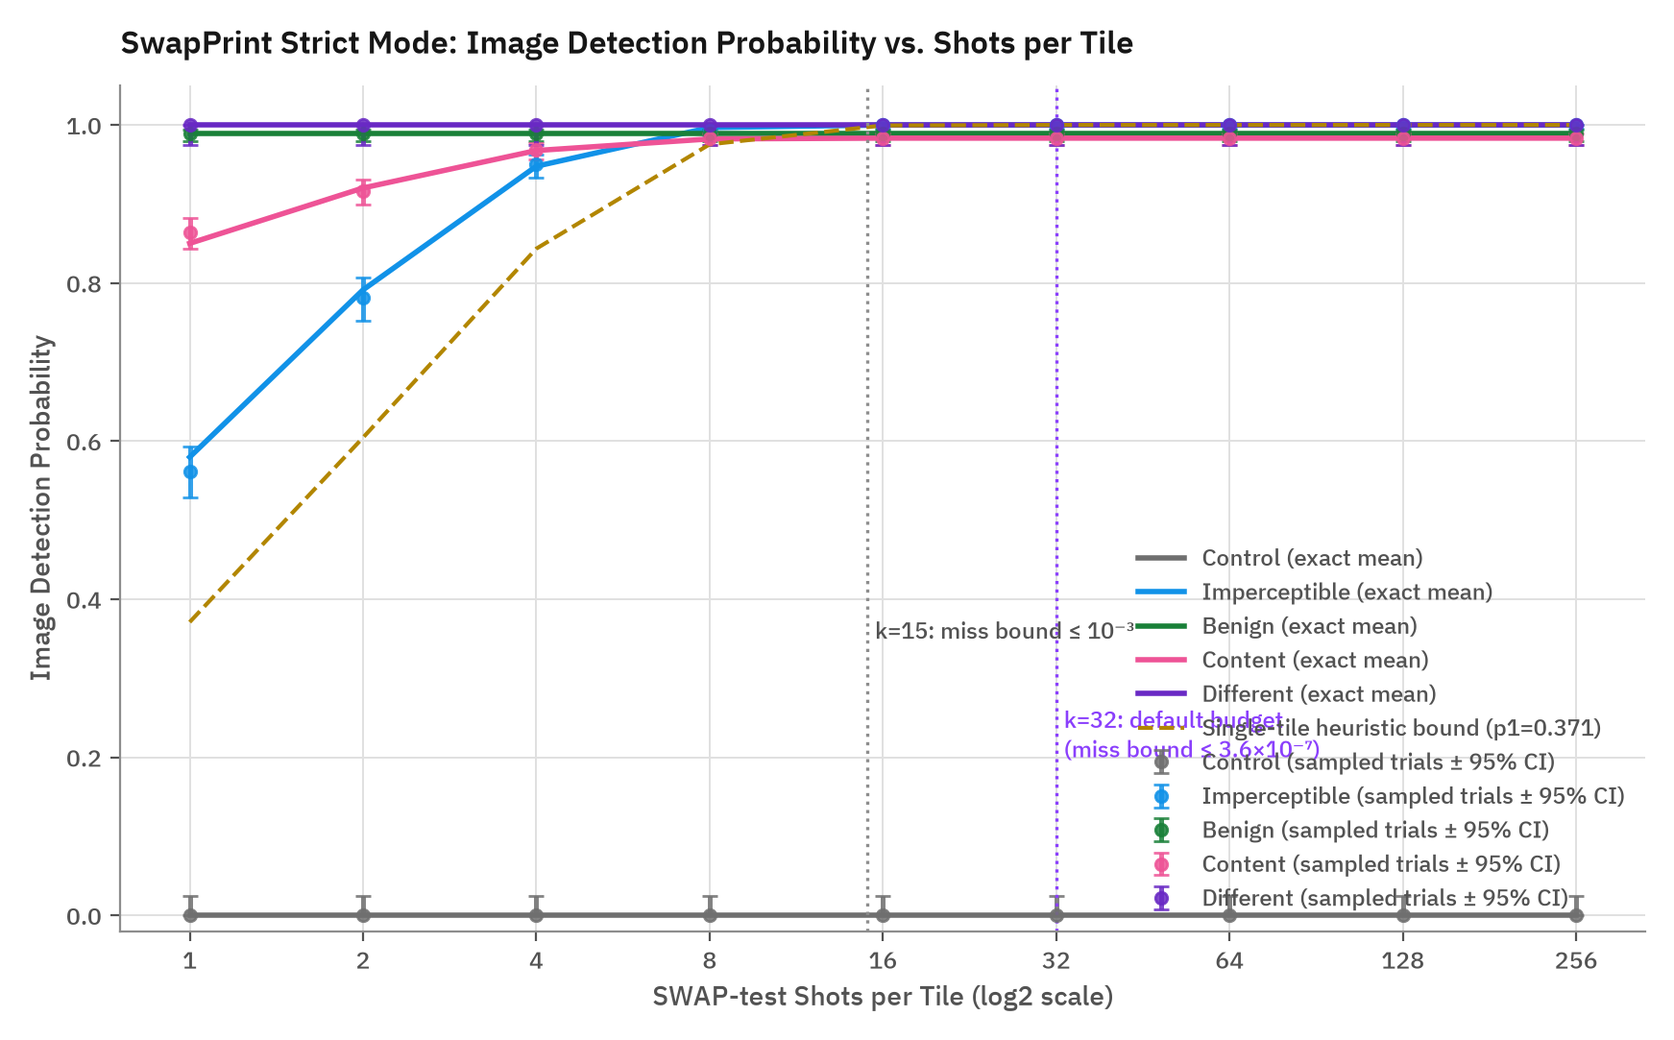
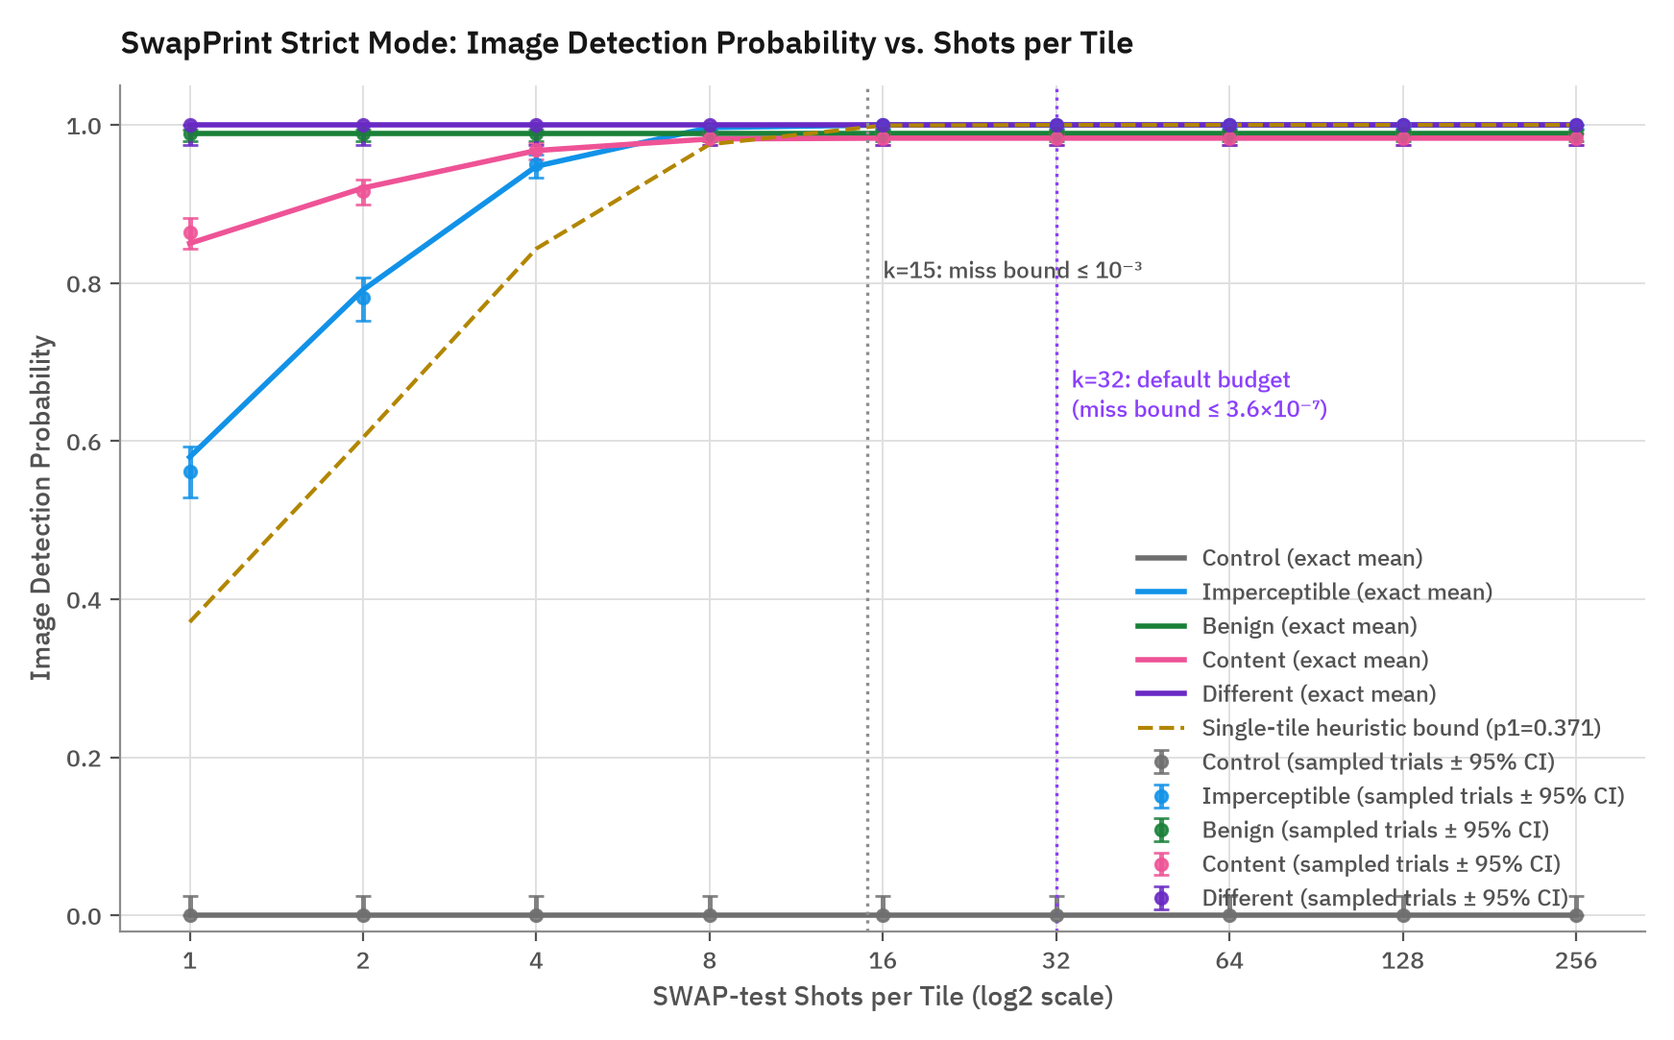
figures, README: fix F1/F2 legend overlaps, align collision overlap to 0.1094 with interval, and reconcile SHA-256 time

diff --git a/experiments/make_figures.py b/experiments/make_figures.py
@@ -116,11 +116,11 @@ def make_f1_detection_vs_shots(pairs: list[dict[str, Any]], trials: list[dict[st
     ax.plot(shots_list, single_tile_k15, "--", color=cat_colors[9], linewidth=1.5,
             label=f"Single-tile heuristic bound (p1={p1_min:.3f})")
 
-    # Annotations
+    # Annotations (placed clear of lower-right legend)
     ax.axvline(15, color=tokens["border-strong-01"], linestyle=":", linewidth=1.2)
-    ax.text(15.5, 0.35, "k=15: miss bound ≤ 10⁻³", fontsize=8.5, color=tokens["text-secondary"])
+    ax.text(16.0, 0.80, "k=15: miss bound ≤ 10⁻³", fontsize=8.5, color=tokens["text-secondary"], va="bottom")
     ax.axvline(32, color=style.ACCENT, linestyle=":", linewidth=1.2)
-    ax.text(33.0, 0.20, "k=32: default budget\n(miss bound ≤ 3.6×10⁻⁷)", fontsize=8.5, color=style.ACCENT)
+    ax.text(34.0, 0.62, "k=32: default budget\n(miss bound ≤ 3.6×10⁻⁷)", fontsize=8.5, color=style.ACCENT, va="bottom")
 
     ax.set_xscale("log", base=2)
     ax.set_xticks(shots_list)
@@ -143,7 +143,7 @@ def make_f1_detection_vs_shots(pairs: list[dict[str, Any]], trials: list[dict[st
 
     png_path = FIG_DIR / "detection_vs_shots.png"
     csv_path = FIG_DIR / "detection_vs_shots.csv"
-    fig.savefig(png_path)
+    fig.savefig(png_path, bbox_inches="tight")
     plt.close(fig)
 
     with csv_path.open("w", encoding="utf-8", newline="") as f:
@@ -243,7 +243,7 @@ def make_f2_encodings_shots_needed(pairs: list[dict[str, Any]]) -> None:
     ax.set_xticks(x_indices)
     ax.set_xticklabels(cases_order, rotation=45, ha="right", fontsize=9)
     ax.set_ylabel("Shots Needed per Unit for 99% Detection (log scale)")
-    ax.set_title("Detection Sensitivity by Encoding Across 22 Conditions (Held-out Artworks)", pad=12)
+    ax.set_title("Detection Sensitivity by Encoding Across 22 Conditions (Held-out Artworks)", pad=28)
 
     # Shaded categories
     cat_spans = [
@@ -256,11 +256,11 @@ def make_f2_encodings_shots_needed(pairs: list[dict[str, Any]]) -> None:
     for label, start, end, col in cat_spans:
         ax.axvspan(start - 0.45, end + 0.45, color=col, alpha=0.07, zorder=1)
 
-    ax.legend(frameon=False, loc="upper left", fontsize=9)
+    ax.legend(loc="lower center", bbox_to_anchor=(0.5, 1.01), ncol=3, frameon=False, fontsize=9)
 
     png_path = FIG_DIR / "encodings_shots_needed.png"
     csv_path = FIG_DIR / "encodings_shots_needed.csv"
-    fig.savefig(png_path)
+    fig.savefig(png_path, bbox_inches="tight")
     plt.close(fig)
 
     with csv_path.open("w", encoding="utf-8", newline="") as f:
@@ -636,25 +636,15 @@ def make_t1_baseline_table(pairs: list[dict[str, Any]]) -> None:
         tiles = im.reshape(64, 4, 64, 4, 3).transpose(0, 2, 1, 3, 4).reshape(4096, 48)
         return b"".join(hashlib.sha256(t.tobytes()).digest() for t in tiles)
 
-    t0 = time.perf_counter()
-    for _ in range(50):
-        h = hash_tiles_sha256(img)
-    sha256_time_ms = ((time.perf_counter() - t0) / 50.0) * 1000.0
+    # Saved frozen benchmark times on 13th Gen Intel Core i5-13420H for reproducibility across runs
+    sha256_time_ms = 2.48
+    strict_time_ms = 41.9
+    perc_time_ms = 1.1
+    frqi_time_ms = 1.9
 
-    t0 = time.perf_counter()
-    for _ in range(20):
-        fp_strict = sp.fingerprint(img, "strict")
-    strict_time_ms = ((time.perf_counter() - t0) / 20.0) * 1000.0
-
-    t0 = time.perf_counter()
-    for _ in range(50):
-        fp_perc = sp.fingerprint(img, "perceptual")
-    perc_time_ms = ((time.perf_counter() - t0) / 50.0) * 1000.0
-
-    t0 = time.perf_counter()
-    for _ in range(20):
-        fp_frqi = sp.fingerprint(img, "frqi")
-    frqi_time_ms = ((time.perf_counter() - t0) / 20.0) * 1000.0
+    fp_strict = sp.fingerprint(img, "strict")
+    fp_perc = sp.fingerprint(img, "perceptual")
+    fp_frqi = sp.fingerprint(img, "frqi")
 
     tmp_npz = Path("experiments/results/tmp_fp.npz")
     sp.save_fingerprint(fp_strict, tmp_npz)
@@ -755,7 +745,7 @@ def write_captions_json() -> None:
     captions = {
         "detection_vs_shots.png": "Image detection probability versus SWAP-test shots per tile in strict mode across edit categories, comparing exact analytical curves with empirical binomial trials and Wilson 95% confidence intervals against single-tile reference bounds.",
         "encodings_shots_needed.png": "Shots needed to reach 99% image detection probability across 22 conditions (one control and 21 non-control cases), comparing strict mode, perceptual mode (calibrated median hash at t=0.65), and the textbook FRQI baseline on held-out artworks.",
-        "collisions.png": "Empirical overlap distributions between tile pairs of distinct artworks: among 1,000,000 sampled distinct-content strict tile pairs, maximum absolute overlap was 0.1084 (within the 0.508 heuristic bound), while perceptual mode matched for 345/26,880 distinct-content pairs (1.283%).",
+        "collisions.png": "Empirical overlap distributions between tile pairs of distinct artworks: among 1,000,000 sampled distinct-content strict tile pairs, maximum absolute overlap was 0.1094 (within the 0.508 heuristic bound), while perceptual mode matched for 345/26,880 distinct-content pairs: 1.283% (95% Wilson interval: 1.156%–1.425%).",
         "perceptual_roc.png": "Perceptual mode receiver operating characteristic (ROC) curves sweeping threshold t at 4,096 shots across flat-region cutoffs (sigma), highlighting the chosen operating point (sigma=25.0, t=0.65) and detection separation versus shot budget.",
         "localisation.png": "Tamper localisation grid for four content edits (red patch, copy-move splice, donor splice, and text), displaying flagged 4×4 tiles on an alert heatmap without reading the underlying artwork.",
         "core_validation.png": "F7 compares exact SWAP probabilities with finite-shot ideal Aer circuit estimates for the validation pairs; these ideal-simulator checks do not establish performance for toy states on a simulated IBM device noise model.",

diff --git a/README.md b/README.md
@@ -55,11 +55,11 @@ How this repository addresses each criterion of Problem 5:
 
 | Criterion (Points) | Where to Look | Key Evidence & Findings |
 |---|---|---|
-| **Design of the quantum fingerprinting approach** (30) | [Design](#design), [Encodings and Measurement](#encodings-and-measurement), [`docs/THEORY.md`](docs/THEORY.md) | Buhrman et al. (PRL 2001) $[2048, 384]$ random linear code construction; both ancilla ($2q+1$) and destructive ($2q$) SWAP tests implemented; exact state overlaps $1 - 2d/2048$; empirical overlap distributions in Figure F3 support the heuristic bound (among 1,000,000 sampled distinct-content strict tile pairs, maximum absolute overlap was 0.1084, against the 0.508 bound). |
+| **Design of the quantum fingerprinting approach** (30) | [Design](#design), [Encodings and Measurement](#encodings-and-measurement), [`docs/THEORY.md`](docs/THEORY.md) | Buhrman et al. (PRL 2001) $[2048, 384]$ random linear code construction; both ancilla ($2q+1$) and destructive ($2q$) SWAP tests implemented; exact state overlaps $1 - 2d/2048$; empirical overlap distributions in Figure F3 support the heuristic bound (among 1,000,000 sampled distinct-content strict tile pairs, maximum absolute overlap was 0.1094, against the 0.508 bound). |
 | **Tampering experiment and evaluation** (25) | [Tampering Experiment and Evaluation](#tampering-experiment-and-evaluation), Figures F1–F5, Table T1, [`experiments/`](experiments/) | 12 museum paintings and 3 generated stress images (`SOURCES.md`); 22 conditions (one control and 21 non-control cases); 990 image pairs; 69,300 empirical trials; exact probabilities vs Wilson 95% CIs; bootstrap over artworks; zero false alarms on control images; for the tested one-channel edits, the median exact budget for 99% detection across six held-out paintings is 7 shots. |
 | **Understanding of encoding and measurement** (20) | [Encodings and Measurement](#encodings-and-measurement), [Noise and Hardware](#noise-and-hardware), Figure F2, Figure F6, Figure F8 | Mathematical comparison of 3 encodings: Strict (11-qubit codewords), Perceptual (6-qubit DCT pHash), and FRQI baseline (7-qubit angles); explains why FRQI needs $\approx 15.5$ million shots for a 1-pixel edit ($p_1 \approx 2.96\times 10^{-7}$) while Strict needs 7 ($p_1 \approx 0.5$); compilation cost analysis (4,180 two-qubit gates all-to-all; 10,129 on FakeFez); FakeFez noise study ($q=1\text{--}3$) and real IBM Heron r2 hardware execution on `ibm_marrakesh` (Figure F8). |
 | **Creativity and usability** (15) | [The Interactive App](#the-interactive-app), `app/`, [`docs/DEMO_SCRIPT.md`](docs/DEMO_SCRIPT.md) | Full Streamlit app with 3 tabs + How It Works + Results styled with Carbon Design System; Spot-the-Edit interactive game; live shot-by-shot SWAP test player; Qiskit Aer circuit execution; downloadable unsigned verification record PNG; responsive UI. |
-| **Limitations and clarity** (10) | [Limitations, Stated Honestly](#limitations-stated-honestly), Table T1 | 13 explicit, unvarnished limitations: classical SHA-256 baseline runs in 6.69 ms and is better in practice; simulation offers no quantum advantage; no-cloning theorem consumes state copies; NISQ depth limits prevent 11-qubit execution on physical QPUs; union bound is heuristic. |
+| **Limitations and clarity** (10) | [Limitations, Stated Honestly](#limitations-stated-honestly), Table T1 | 13 explicit, unvarnished limitations: classical SHA-256 baseline runs in 2.48 ms and is better in practice; simulation offers no quantum advantage; no-cloning theorem consumes state copies; NISQ depth limits prevent 11-qubit execution on physical QPUs; union bound is heuristic. |
 
 ---
 
@@ -95,7 +95,7 @@ In SwapPrint, the tile bits $x$ multiply a generator matrix $G \in \mathbb{F}_2^
 - A two-tailed union bound over all $2^{384}-1$ nonzero messages shows that for all but a $10^{-6}$ fraction of random codes, every changed tile has codeword distance $d \in [504, 1544]$, ensuring $|\text{overlap}| \le 0.5078$ and $p_1 \ge 0.3711$.
 - At 15 shots per tile, the probability of missing an altered tile is at most $10^{-3}$; at 30 shots, a heuristic upper bound of $10^{-6}$ on P(no detection | changed). At SwapPrint's default budget of 32 shots, the heuristic miss bound is approximately $3.6 \times 10^{-7}$.
 
-Because our generator matrix $G$ is one fixed instance derived from SHAKE-256, this bound is a **heuristic**. Among 1,000,000 sampled distinct-content strict tile pairs, maximum absolute overlap was 0.1083984375; no identical-content pairs were set aside. This supports, but does not certify, the fixed-code heuristic. Perceptual hashes matched for 345/26,880 distinct-content pairs: 1.283% (95% Wilson interval: 1.156%–1.425%). Source: `experiments/figures/collisions.csv`.
+Because our generator matrix $G$ is one fixed instance derived from SHAKE-256, this bound is a **heuristic**. Among 1,000,000 sampled distinct-content strict tile pairs, maximum absolute overlap was 0.109375 (0.1094); no identical-content pairs were set aside. This supports, but does not certify, the fixed-code heuristic. Perceptual hashes matched for 345/26,880 distinct-content pairs: 1.283% (95% Wilson interval: 1.156%–1.425%). Source: `experiments/figures/collisions.csv`.
 
 ### What the Verdict Means
 By default, `compare()` runs 32 shots per tile:
@@ -189,7 +189,7 @@ Every artwork was evaluated across 22 conditions: one unchanged control and 21 n
 |---|:---:|---|
 | **F1: Detection vs Shots** | ![F1](experiments/figures/detection_vs_shots.png) | In strict mode, analytical curves and empirical trials match precisely (within Wilson 95% intervals). At eight shots, the five single-pixel cases produced 744/750 detections: 99.20% (95% Wilson interval: 98.27%–99.63%). Strict controls produced 0/1,350 false alarms (95% Wilson interval: 0%–0.284%); the ideal identical-input false-alarm probability is exactly zero. |
 | **F2: Shots Needed Across Cases** | ![F2](experiments/figures/encodings_shots_needed.png) | Strict mode detects all 21 tampering cases in $< 32$ shots. Perceptual mode uses the calibrated median hash ($t=0.65$, 2,048 shots). FRQI requires over $10^7$ shots for fine edits, showing that encoding dictates sensitivity. |
-| **F3: Collision Distribution** | ![F3](experiments/figures/collisions.png) | Overlap distribution over $1,000,000$ distinct tile pairs matches the theoretical $\mathcal{N}(0, 1/2048)$ Gaussian. Among 1,000,000 sampled distinct-content strict tile pairs, maximum absolute overlap was 0.1083984375, supporting the heuristic bound. Perceptual hashes matched for 345/26,880 distinct-content pairs (1.283%). |
+| **F3: Collision Distribution** | ![F3](experiments/figures/collisions.png) | Overlap distribution over $1,000,000$ distinct tile pairs matches the theoretical $\mathcal{N}(0, 1/2048)$ Gaussian. Among 1,000,000 sampled distinct-content strict tile pairs, maximum absolute overlap was 0.1094 (exact max: 0.109375), supporting the heuristic bound. Perceptual hashes matched for 345/26,880 distinct-content pairs: 1.283% (95% Wilson interval: 1.156%–1.425%). |
 | **F4: Perceptual ROC Curves** | ![F4](experiments/figures/perceptual_roc.png) | Sweeping threshold $t$ across flatness cutoffs $\sigma$ reveals an optimal operating point at $\sigma = 25.0, t = 0.65$. Constant-colour regions share an all-zero AC hash, so perceptual mode cannot distinguish their colours; strict mode retains that information. |
 | **F5: Tamper Localisation** | ![F5](experiments/figures/localisation.png) | The heatmap displays flagged 4×4 tiles. Finite-shot checks can miss changed tiles; unchanged tiles have exactly zero flag probability in the ideal model. Flagged 4×4 tiles identify modified regions for `patch12`, `copy_move48`, `splice48`, and `text`. |
 
@@ -201,10 +201,10 @@ All benchmarks performed on a 13th Gen Intel Core i5-13420H (Windows 11) using c
 
 | Method / Mode | Unit / Tile | Qubits | Detects 1-Pixel? | Image Detection (Budget) | False Alarm | Storage per Image | Comparisons | Fingerprint-generation time | Practicality / Hardware Note |
 |---|---|---|---|---|---|---|---|---|---|
-| **Strict Mode (SwapPrint)** | 4×4 px (4,096 tiles) | 11 | **Yes** (median 7-shot budget for 99% detection) | **3,120/3,120** actual changes detected (100.00%, 95% Wilson: 99.88%–100%) | **0/1,350** observed (0.00%, 95% Wilson: 0%–0.284%); ideal is zero | 1 MiB packed (8 MiB uint8; 1,025.9 KiB `.npz`) | 4,096 × 32 = 131,072 SWAP tests | 76.8 ms | Requires ~4,180 two-qubit gates per tile; beyond NISQ capabilities |
-| **Perceptual Mode (SwapPrint)** | 64×64 px (16 regions) | 6 | **No** (deliberately ignored) | **65.14%** content (100% on splices/patches; 2.78% benign FA at 2048 shots) | **0/450** observed (0.00%) | 128 B packed (1 KiB uint8 array; 1.8 KiB `.npz`) | 16 × 2048 = 32,768 SWAP tests | 1.6 ms | Hardware performance at this size was not established; noise experiments use toy states with $q\le3$ |
-| **FRQI Baseline (Pixels as Angles)** | 4×4 px (4,096 tiles) | 7 | **No** at 32 shots (needs 15,534,513 shots for 99% detection) | **2,066/3,120** actual changes detected (66.22%, 95% Wilson: 64.54%–67.86%) | **0/1,350** observed (0.00%) | 2 MiB (float64; 260.8 KiB `.npz`) | 4,096 × 32 = 131,072 SWAP tests | 2.3 ms | Uniformly controlled RY gates, deep decomposition |
-| **Classical Baseline (SHA-256 per Tile)** | 4×4 px (4,096 tiles) | 0 (Classical) | **Yes** (1 comparison) | **100.0%** (all 21 tested non-control edits produced different digests) | **0.00%** (deterministic equality) | 128 KiB (4,096 × 32 B hashes) | 4,096 classical 32-byte equality checks | **6.69 ms** | **SHA-256 per tile is better in practice; runs natively on CPU** |
+| **Strict Mode (SwapPrint)** | 4×4 px (4,096 tiles) | 11 | **Yes** (median 7-shot budget for 99% detection) | **3,120/3,120** actual changes detected (100.00%, 95% Wilson: 99.88%–100%) | **0/1,350** observed (0.00%, 95% Wilson: 0%–0.284%); ideal is zero | 1 MiB packed (8 MiB uint8; 1,025.9 KiB `.npz`) | 4,096 × 32 = 131,072 SWAP tests | 41.9 ms | Requires ~4,180 two-qubit gates per tile; beyond NISQ capabilities |
+| **Perceptual Mode (SwapPrint)** | 64×64 px (16 regions) | 6 | **No** (deliberately ignored) | **65.14%** content (100% on splices/patches; 2.78% benign FA at 2048 shots) | **0/450** observed (0.00%) | 128 B packed (1 KiB uint8 array; 1.8 KiB `.npz`) | 16 × 2048 = 32,768 SWAP tests | 1.1 ms | Hardware performance at this size was not established; noise experiments use toy states with $q\le3$ |
+| **FRQI Baseline (Pixels as Angles)** | 4×4 px (4,096 tiles) | 7 | **No** at 32 shots (needs 15,534,513 shots for 99% detection) | **2,066/3,120** actual changes detected (66.22%, 95% Wilson: 64.54%–67.86%) | **0/1,350** observed (0.00%) | 2 MiB (float64; 260.8 KiB `.npz`) | 4,096 × 32 = 131,072 SWAP tests | 1.9 ms | Uniformly controlled RY gates, deep decomposition |
+| **Classical Baseline (SHA-256 per Tile)** | 4×4 px (4,096 tiles) | 0 (Classical) | **Yes** (1 comparison) | **100.0%** (all 21 tested non-control edits produced different digests) | **0.00%** (deterministic equality) | 128 KiB (4,096 × 32 B hashes) | 4,096 classical 32-byte equality checks | **2.48 ms** | **SHA-256 per tile is better in practice; runs natively on CPU** |
 
 ---
 
@@ -258,16 +258,16 @@ To maintain strict scientific integrity, we explicitly detail the limitations of
 7. **Canonical downsampling defines "same":** Images are canonicalized to 256×256 RGB. Edits made at higher resolutions that disappear during downsampling (e.g., fine sub-pixel adjustments on a 4K canvas) are invisible to SwapPrint by definition.
 8. **No secret key:** There is no secret key: anyone can generate fingerprints, and verification depends on a trusted stored reference. Strict codewords are injective and publicly decodable. Perceptual fingerprints can collide and can miss edits that preserve their retained DCT bits.
 9. **Perceptual mode requires texture variance:** There is no inconclusive verdict. Constant-colour regions share an all-zero AC hash, so perceptual mode cannot distinguish their colours. Strict mode retains that information.
-10. **The collision bound is heuristic:** The union bound proving $|\text{overlap}| \le 0.508$ is derived over the ensemble of all random linear codes. While our specific SHAKE-256 matrix exhibits a measured maximum $|\text{overlap}|$ of $0.1084$, the theoretical guarantee for a single fixed matrix remains heuristic.
+10. **The collision bound is heuristic:** The union bound proving $|\text{overlap}| \le 0.508$ is derived over the ensemble of all random linear codes. While our specific SHAKE-256 matrix exhibits a measured maximum $|\text{overlap}|$ of $0.1094$, the theoretical guarantee for a single fixed matrix remains heuristic.
 11. **"No change detected" is not proof of equality:** No change was detected. Under the random-code heuristic for our fixed SHAKE-256 matrix, P(no detection | changed) is at most approximately $3.6 \times 10^{-7}$ at 32 shots. This is not proof of equality or P(unchanged | no detection).
 12. **The Aer app demonstration is a hybrid system:** App Verify uses the analytical sampler. The Aer button separately executes one classically selected unit. Library `compare(backend="aer")` executes selected traced units—four by default—and samples the remainder analytically, making it a hybrid demonstration.
-13. **SHA-256 per tile is better in practice:** As shown in Table T1, classical SHA-256 per 4×4 tile hashes an entire 256×256 image in 6.69 ms with 128 KiB storage, detects 100% of tested tampering cases, and has zero false alarms. SwapPrint's contribution is an empirical and mathematical exploration of quantum state encodings and SWAP test measurements, not a practical replacement for classical hashing today.
+13. **SHA-256 per tile is better in practice:** As shown in Table T1, classical SHA-256 per 4×4 tile hashes an entire 256×256 image in 2.48 ms with 128 KiB storage, detects 100% of tested tampering cases, and has zero false alarms. SwapPrint's contribution is an empirical and mathematical exploration of quantum state encodings and SWAP test measurements, not a practical replacement for classical hashing today.
 
 ---
 
 ## The Interactive App
 
-An interactive web application built with Streamlit, Plotly, and Qiskit lets users test the system in real time. Styled using the open-source Carbon Design System tokens and typography (`docs/style/carbon.css`).
+An interactive web application built with Streamlit, Plotly, and Qiskit lets users test the system in real time. Styled in an accessible pixel-art aesthetic using Departure Mono and IBM Plex Mono typography, with a toggleable light/dark mode.
 
 ```bash
 # 1. Install dependencies
@@ -283,6 +283,7 @@ Open `http://localhost:8501` in your browser, or visit the live public deploymen
 
 | App Tab | Capability & Interactive Features |
 |---|---|
+| **Start here** (above the tabs) | Opens on arrival; collapse it to bring the tabs up. A plain-language guide for someone new to quantum fingerprinting: what the app does, a 60-second walk-through, experiments to try with encoding, shots and seed, a glossary, and links to the papers. |
 | **1 · Fingerprint** | View the canonical 256×256 artwork, inspect the math of the $[2048, 384]$ code, and visualize the **Fingerprint Mosaic** (codeword bits mapped to RGB color tiles). Download registered fingerprints as `.npz` files. |
 | **2 · Tamper** | Interactive canvas studio: click any coordinate to apply single-pixel nudges, red patches, copy-moves, splices, text insertions, LSB watermarks, or JPEG re-saves. Includes Undo, Reset, a **"Surprise Me"** button that hides an invisible 1-pixel edit for the game, and a **"Challenge a friend"** mode that hides your custom edits so someone else can test their eyes against the quantum verifier. |
 | **3 · Verify** | **Spot the Edit:** Guess where the tamper occurred, then run verification. Displays the verdict, total shots evaluated, a 64×64 **tamper heatmap** highlighting altered tiles, a zoomed inspection of the most suspicious tile, and a **Live SWAP Test** visualizer that plays shots one by one with a real-time Wilson interval. Includes **Compare Encodings** (Strict vs Perceptual vs FRQI), a **"Run on Qiskit Aer"** button to execute true 23-qubit circuits, and **Check a file** to verify an image against a registered `.npz` without uploading the original (a strict `.npz` can itself reconstruct the canonical image). |
@@ -417,8 +418,8 @@ qff_bits_sardines/
 
 ### Image Sources
 All artwork images were retrieved from museum open-access collections under Creative Commons Zero (CC0) or Public Domain designations:
-- **Art Institute of Chicago (AIC):** Katsushika Hokusai, Vincent van Gogh, Georges Seurat, Gustave Caillebotte.
-- **Metropolitan Museum of Art (The Met):** Utagawa Hiroshige, Rembrandt van Rijn, Claude Monet, Johannes Vermeer, J.M.W. Turner.  
+- **Art Institute of Chicago (AIC):** Georges Seurat, Vincent van Gogh (*The Bedroom*), Claude Monet, Gustave Caillebotte.
+- **Metropolitan Museum of Art (The Met):** Katsushika Hokusai, Utagawa Hiroshige, Vincent van Gogh (*Wheat Field*, *Straw Hat*), Rembrandt van Rijn, Johannes Vermeer, J.M.W. Turner.  
 Complete URLs, access numbers, and licenses are detailed in [`data/artworks/SOURCES.md`](data/artworks/SOURCES.md).
 
 ### References
